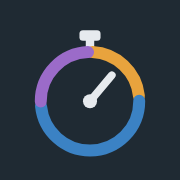
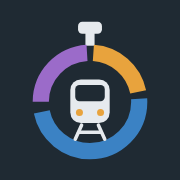
更換圖示：碼表三色外圈加上軌道列車正面
- 新圖示：深色底、三色外圈（等車、乘車、轉乘）之間留缺口，錶面是列車正面加鐵軌，表現軌道交通
- 重新產生 icon-192、icon-512、icon-maskable-512、apple-touch-icon；maskable 版內容縮到安全區內
- 新增 scripts/export-icons.js，由 icon.svg 產生各尺寸 PNG
- README、CLAUDE.md 說明如何修改圖示

Claude-Session: https://claude.ai/code/session_01B1kB7JwBTkW6ohnLXgXpdf

Changed region(s): [[0.1667, 0.1111, 0.8333, 0.8889], [0.6389, 0.6944, 0.6944, 0.75], [0.3056, 0.6944, 0.3611, 0.75]]

diff --git a/scripts/export-icons.js b/scripts/export-icons.js
@@ -1,0 +1,40 @@
+// 由 icons/icon.svg 輸出加到主畫面用的 PNG 圖示。改完 icon.svg 後執行：
+//
+//   node scripts/export-icons.js
+//
+// 需要 Playwright（npx playwright install chromium），網站本身不需要。
+// - icon-192.png、icon-512.png：圓角，四角透明
+// - icon-maskable-512.png：Android 自適應圖示，滿版方形底，內容縮到中心的安全區內，系統會自己裁成圓形或圓角方形
+// - apple-touch-icon.png：iPhone 用，180×180 滿版方形底，系統會自己裁成圓角
+const { chromium } = require("playwright");
+const fs = require("fs");
+const path = require("path");
+
+const dir = path.join(__dirname, "..", "icons");
+const src = fs.readFileSync(path.join(dir, "icon.svg"), "utf8");
+const ROUNDED_BG = '<rect width="512" height="512" rx="112" fill="#1f2a33"/>';
+if (!src.includes(ROUNDED_BG)) throw new Error("icon.svg 的背景改了，請一起更新這支程式的 ROUNDED_BG");
+
+// 滿版方形底；scale 小於 1 時，內容以中心縮小
+const square = (scale) => src
+  .replace(ROUNDED_BG, `<rect width="512" height="512" fill="#1f2a33"/><g transform="translate(256 256) scale(${scale}) translate(-256 -256)">`)
+  .replace("</svg>", "</g></svg>");
+
+const jobs = [
+  ["icon-192.png", 192, src, true],
+  ["icon-512.png", 512, src, true],
+  ["icon-maskable-512.png", 512, square(0.86), false],
+  ["apple-touch-icon.png", 180, square(1), false],
+];
+
+(async () => {
+  const browser = await chromium.launch();
+  for (const [name, size, svg, transparent] of jobs) {
+    const page = await browser.newPage({ viewport: { width: size, height: size } });
+    await page.setContent(`<body style="margin:0">${svg.replace("<svg ", `<svg width="${size}" height="${size}" `)}</body>`);
+    await page.screenshot({ path: path.join(dir, name), omitBackground: transparent });
+    await page.close();
+    console.log(`已輸出 icons/${name}`);
+  }
+  await browser.close();
+})();

diff --git a/CLAUDE.md b/CLAUDE.md
@@ -17,7 +17,7 @@
 | `config.js` | `SUPABASE_URL`、`SUPABASE_ANON_KEY`、`CONTACT_EMAIL` |
 | `style.css` | 顏色集中在 `:root`（暗色在 `prefers-color-scheme: dark`） |
 | `sw.js` | service worker：打開首頁時整組下載 `FILES`，全部成功才換新版；3 秒內下載不完或沒網路就用快取；伺服器缺檔就清快取改走網路 |
-| `manifest.webmanifest`、`icons/` | 加入主畫面用的名稱與圖示（PNG 由 `icons/icon.svg` 的設計輸出） |
+| `manifest.webmanifest`、`icons/` | 加入主畫面用的名稱與圖示（碼表三色外圈＋軌道列車正面）；PNG 由 `scripts/export-icons.js` 從 `icons/icon.svg` 產生 |
 | `supabase/schema.sql` | 資料表、權限、trigger、統計函式；可重複執行（冪等升級） |
 | `scripts/check-stations.js` | 比對 `stations.js` 和 schema 內的車站清單；`--write` 自動同步 |
 
@@ -49,6 +49,7 @@
 - **加或改車站**：改 `stations.js` → `node scripts/check-stations.js --write` → 提醒使用者到 Supabase SQL Editor 重新執行整份 `schema.sql`（push 不會改到線上資料庫）。
 - **改隱私相關行為**：前端 `toUpload` 和資料庫 `trips_before_insert` 兩邊都要改，README 的〈隱私〉段和 `index.html` 的隱私頁也要同步。
 - **新增、改名或刪除網頁用到的檔案**：同步改 `sw.js` 的 `FILES`（漏改時網站仍可用，但離線開啟會失效）。
+- **改圖示**：改 `icons/icon.svg` → `node scripts/export-icons.js`（需要 Playwright）。maskable 版內容縮到 0.86 倍，Android 圓形裁切時不會切到。
 - **改資料庫錯誤訊息**：`insertTrip` 用訊息裡的「太頻繁」「太多」判斷可以重送，改 `trips_before_insert` 的頻率限制訊息時要一起改。
 - **localStorage**：和同網域的 claude-web-quest 共用（`sun070378-create.github.io`），新增 key 時避免撞名（網頁闖關用 `webquest-progress`、`note`、`theme`）。
 

diff --git a/README.md b/README.md
@@ -119,9 +119,10 @@
 | `stations.js` | 路線與車站清單 |
 | `config.js` | 資料庫網址、公開金鑰、聯絡 email |
 | `sw.js` | 讓網站沒有網路也能打開（service worker）。**新增、改名或刪除網頁用到的檔案時，要一起改裡面的 `FILES`** |
-| `manifest.webmanifest`、`icons/` | 加到主畫面時的名稱和圖示 |
+| `manifest.webmanifest`、`icons/` | 加到主畫面時的名稱和圖示（PNG 由 `icons/icon.svg` 產生） |
 | `supabase/schema.sql` | 資料表、權限、資料檢查、統計函式 |
 | `scripts/check-stations.js` | 檢查資料庫的車站清單和 `stations.js` 是否一致 |
+| `scripts/export-icons.js` | 由 `icons/icon.svg` 產生各尺寸的 PNG 圖示（需要 Playwright） |
 | `CLAUDE.md` | 給 AI agent 看的專案索引 |
 | `LICENSE` | 程式碼授權（AGPL-3.0） |
 
@@ -144,6 +145,10 @@
 **2. 放上網路（GitHub Pages，免費）**
 
 到 repo 的 **Settings → Pages**，Source 選 **Deploy from a branch**，Branch 選 `main`、資料夾選 `/ (root)`。更新網站後，使用者下次在有網路時打開，就會自動換成新版。
+
+### 修改圖示
+
+改 `icons/icon.svg`，再執行 `node scripts/export-icons.js` 產生各尺寸的 PNG。已經加到主畫面的圖示不一定會自動更新：Android 通常幾天內會換成新的，iPhone 要刪掉後重新加入。
 
 ### 新增或修改車站
 
